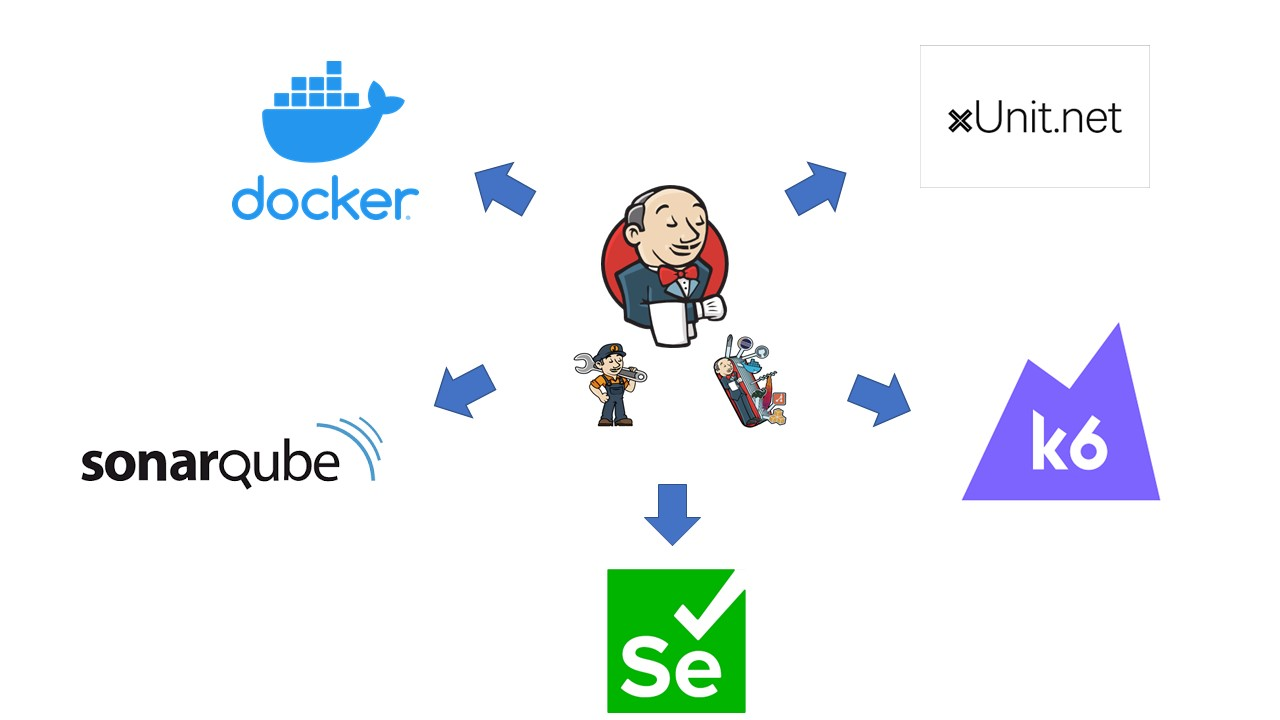
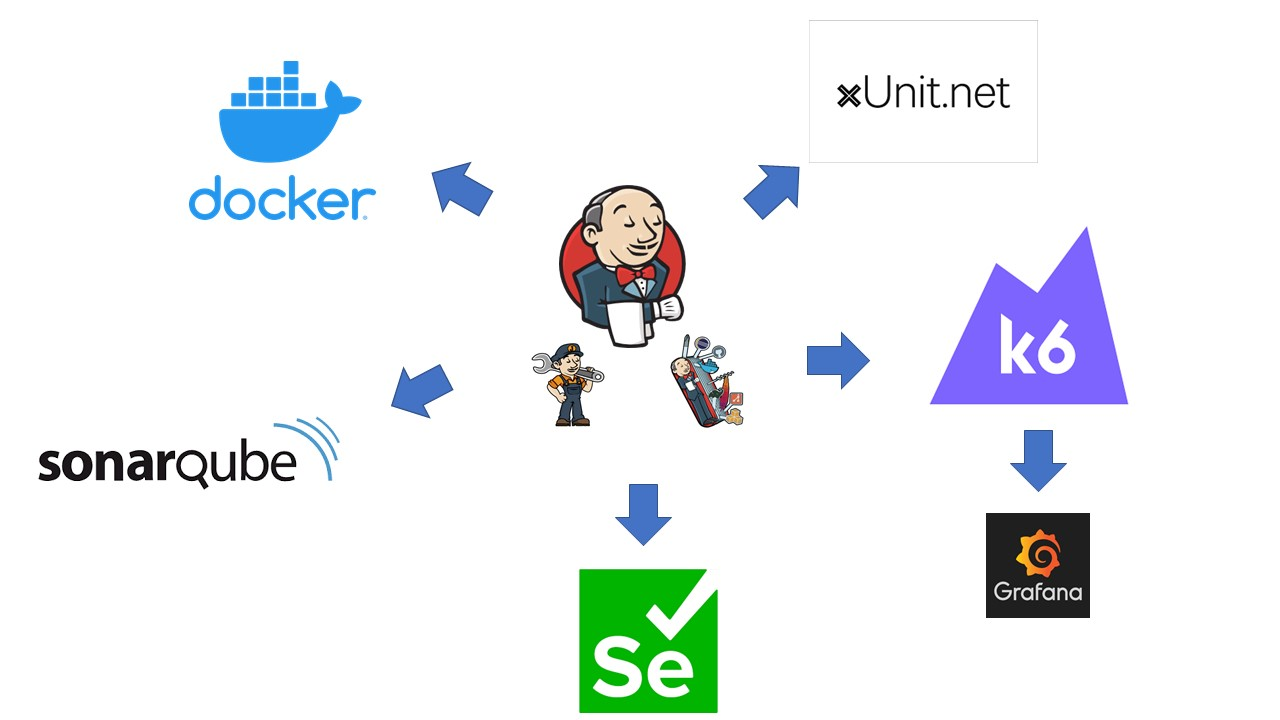
Improved readme

diff --git a/README.md b/README.md
@@ -1,4 +1,4 @@
-This project is a starter kit for setting up a Jenkins docker installation on Windows and related CI/CD and QA utilities  
+This project is a starter kit for setting up a Jenkins docker installation for CI and QA.  
 
 Tools integrated:
 
@@ -10,6 +10,9 @@ Tools integrated:
 * [xUnit.Net](https://xunit.net/)
 * [Selenium](https://www.selenium.dev/)
 * [k6](https://k6.io/)
+* [grafana](https://grafana.com/)
+
+<br />
 
 ![Banner](./images/banner.jpg "Banner")
 
@@ -25,12 +28,15 @@ If you do not need it, remove the JAVA_OPTS customization relative to hudson.mod
 * Different test jobs, described afterwards
   ![jobs folders](./images/jenkins-jobs.png "jobs folders")
 
+<br />
 
 ## Test job folder *docker*:
 * default-agent
 * docker-agent
 * push_image_to_local_registry
 * docker-agent-from-local-registry (first run a local registry)
+
+<br />
 
 ## Test job folder *sonarqube*:
 * 01_build_netcore_sonarscanner_image_and_push_to_local_registry  
@@ -61,6 +67,8 @@ If you run second or third job, you will end up with these results in sonarqube:
 
 ![sonarqube project details](./images/sonarqube-project-details.png "contsonarqube project details")
 
+<br />
+
 ## Test job folder *selenium*:
 
 * a pipeline running a basic grid (3 browsers) and xunit UI tests against this grid
@@ -71,18 +79,29 @@ You can follow tests progress pointing your browser to http://localhost:4444
 
 ![selenium hub](./images/seleniumhub.png "selenium hub")
 
+<br />
 
 ## Test job folder *k6*:
 
-* a pipeline running k6 load test and publishing HTML report
+* a pipeline running k6 load test and publishing HTML report  
+  After job is run, you should see a new report published like this:
+![Jenkins HTML report](./images/jenkins-k6-test-results-html.png "Jenkins HTML report")
+
 * a pipeline running k6 load test and publishing k6 metrics to grafana
 Before running this job issue:
     
-    docker compose -f k6/docker-compose.yaml up
-    
+      docker compose -f k6/docker-compose.yaml up  
+
+  After job is run, you should see a new report published like this:
+![Grafana k6 dashboard](./images/grafana-k6-dashboard.png "Grafana k6 dashboard")
+
+<br />
+
 # Project *registry* folder
 
 * running a local (insecure) registry for hosting custom images (used as agent from jenkins)
+
+<br />
 
 # Porject *sonarqube* folder
 
@@ -97,15 +116,21 @@ Before running this job issue:
 
 * Dockerfile for creating a sonarqube netcore scanner for using as docker agent 
 
+<br />
+
 # Project *selenium* folder
 
 * a docker-compose.yml file for setting up a basic selenium grid
 * a xUnit project for testing the grid
 
+<br />
+
 # Project *k6* folder
 
 * a docker-compose.yml file for setting up influxdb:1.8 and grafana with a pre-provisioned dashboard for visualizing k6 load test results (take from [k6 repo](https://github.com/grafana/k6))
 * an example k6 load test also optionally generating HTML results (thank to [k6-reporter](https://github.com/benc-uk/k6-reporter) project )
+
+<br />
 
 # docker compose
 
